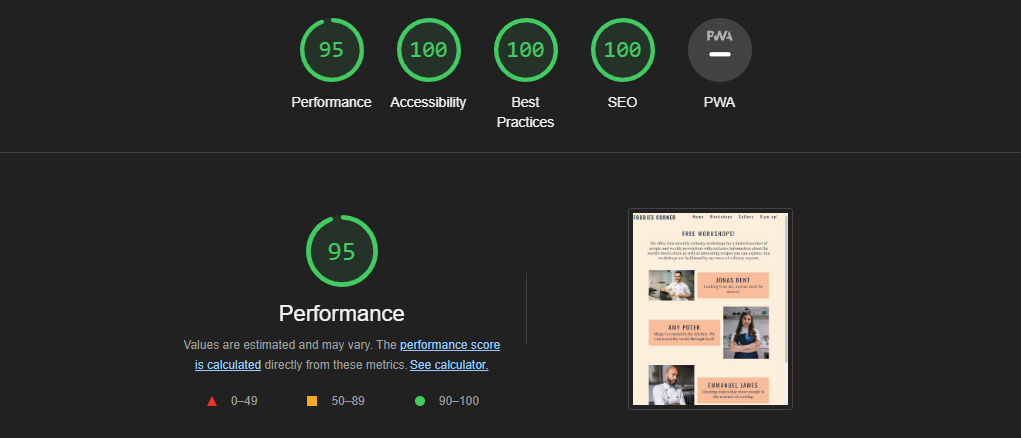
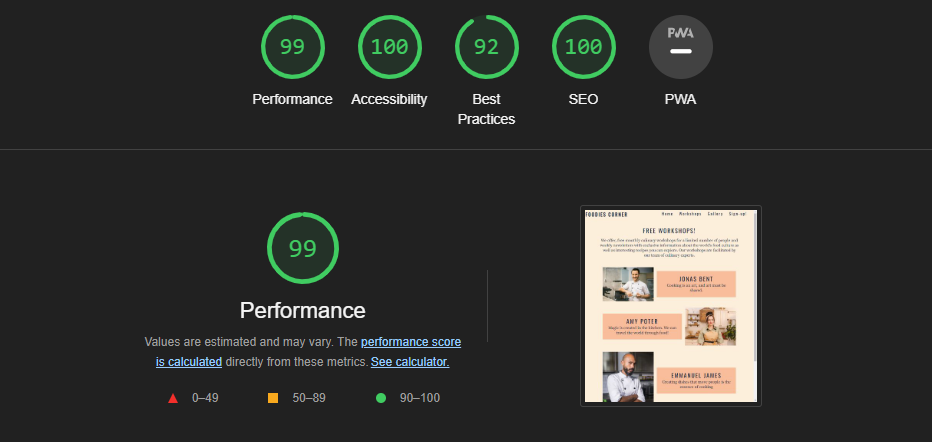
Remove chef image and add a replacement image in workshops page

diff --git a/workshops.html b/workshops.html
@@ -83,7 +83,7 @@
                     <h2>Amy Poter</h2>
                     <p>Magic is created in the kitchen. We can travel the world through food!</p>
                 </div>
-                <img src="assets/images/chef-2.webp" alt="image of female chef">
+                <img src="assets/images/chef-image-2 (1).webp" alt="image of female chef">
             </section>
             <section id="chef-3">
                 <img src="assets/images/chef-3.webp" alt="Image of a male chef">

diff --git a/README.md b/README.md
@@ -278,7 +278,7 @@ For Mobile Devices
 <details>
 <summary>Workshops</summary>
 
-![Workshops lighthouse screeshot](documentation/readme-images/mobile-workshops.png)
+![Workshops lighthouse screeshot](documentation/readme-images/mobile-workshop.png)
 </details>
 
 <details>
@@ -419,6 +419,12 @@ foodies-corner](https://njorogetracy.github.io/foodies-corner/)
  - [Photo by Team Picsfast from Pexels:]( https://www.pexels.com/photo/person-pouring-chocolate-syrup-on-buns-with-berries-8753567/)
  - [Photo by julie aagaard from Pexels:](https://www.pexels.com/photo/salad-on-a-plate-2097090/)
  - [Photo by Kristina  Snowasp from Pexels:](https://www.pexels.com/photo/a-person-mixing-sliced-vegetables-on-a-wooden-bowl-8978868/)
+ - [Photo by ANTONI SHKRABA production from Pexels:]( https://www.pexels.com/photo/woman-in-brown-apron-standing-behind-a-wooden-kitchen-counter-8902007/)
+
+ These photos are from Unsplash.com
+ - [Photo by Or Hakim from Unsplash](https://unsplash.com/photos/S2Eql9vHN3o)
+ - [Photo by Toa Heftiba from Unsplash](https://unsplash.com/photos/5JeTin55H9U)
+ - [Photo by Hanny Naibaho](https://unsplash.com/photos/0YbeoQOX89k)
 
  The following gallery images were courtesy of Miriti's Delight: image-1, image-2, image-6 and image-9
  - [Photos by Ken Miriti(Miriti's Delight)](https://instagram.com/miritisdelight?igshid=YmMTA2M2Y=)
